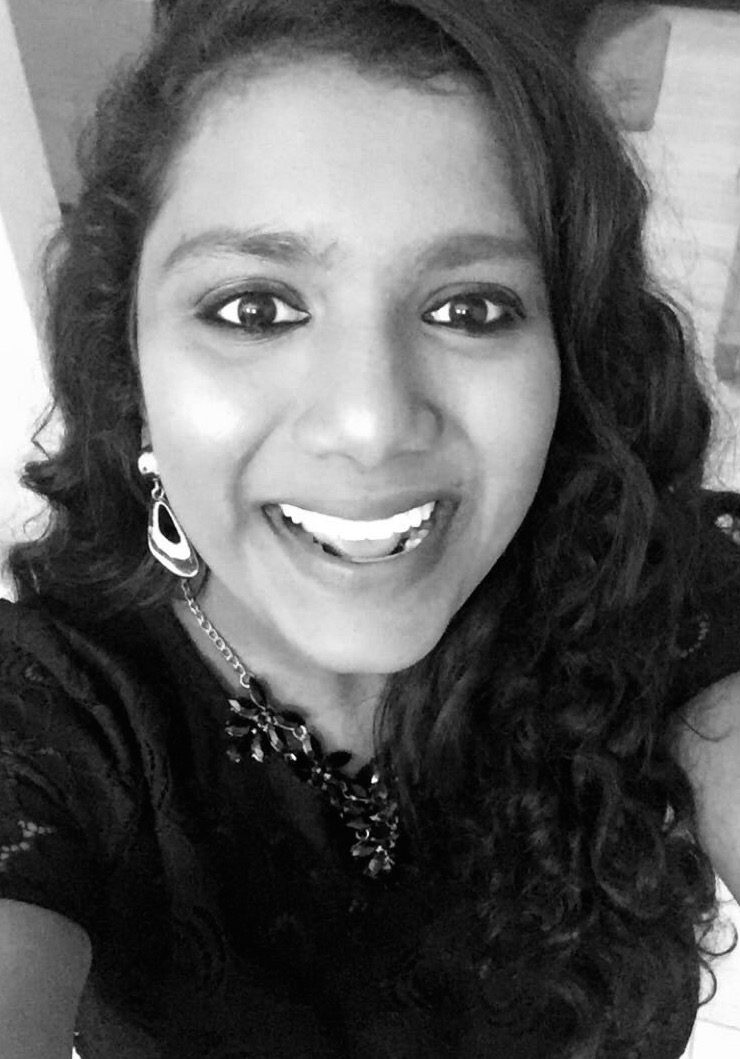
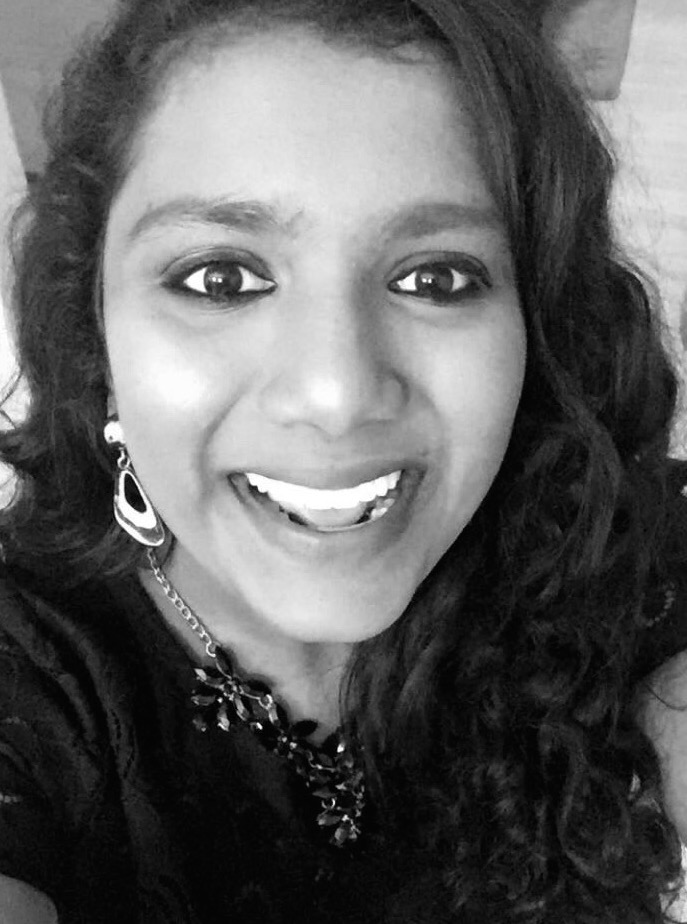
rand19

diff --git a/index.html b/index.html
@@ -109,10 +109,10 @@ tr:nth-child(even) {
     </div><!-- /.top-navigation -->
 </div><!-- /.navigation-wrapper -->
 
-<div id="main" role="main">
+
   <div class="article-author-side">
     
-    <img src="img/janet.jpg" class="bio-photo" alt="Janet Loyola bio photo",style="width:110px;height:140px;">
+    <img src="img/janet.jpg" class="bio-photo" alt="Janet Loyola bio photo",style="width:90px;height:140px;">
 
 <h3 id="about_me">Janet Loyola</h3>
 <p>Undergrad student at UC Davis majoring in Computational Statistics.</p>
